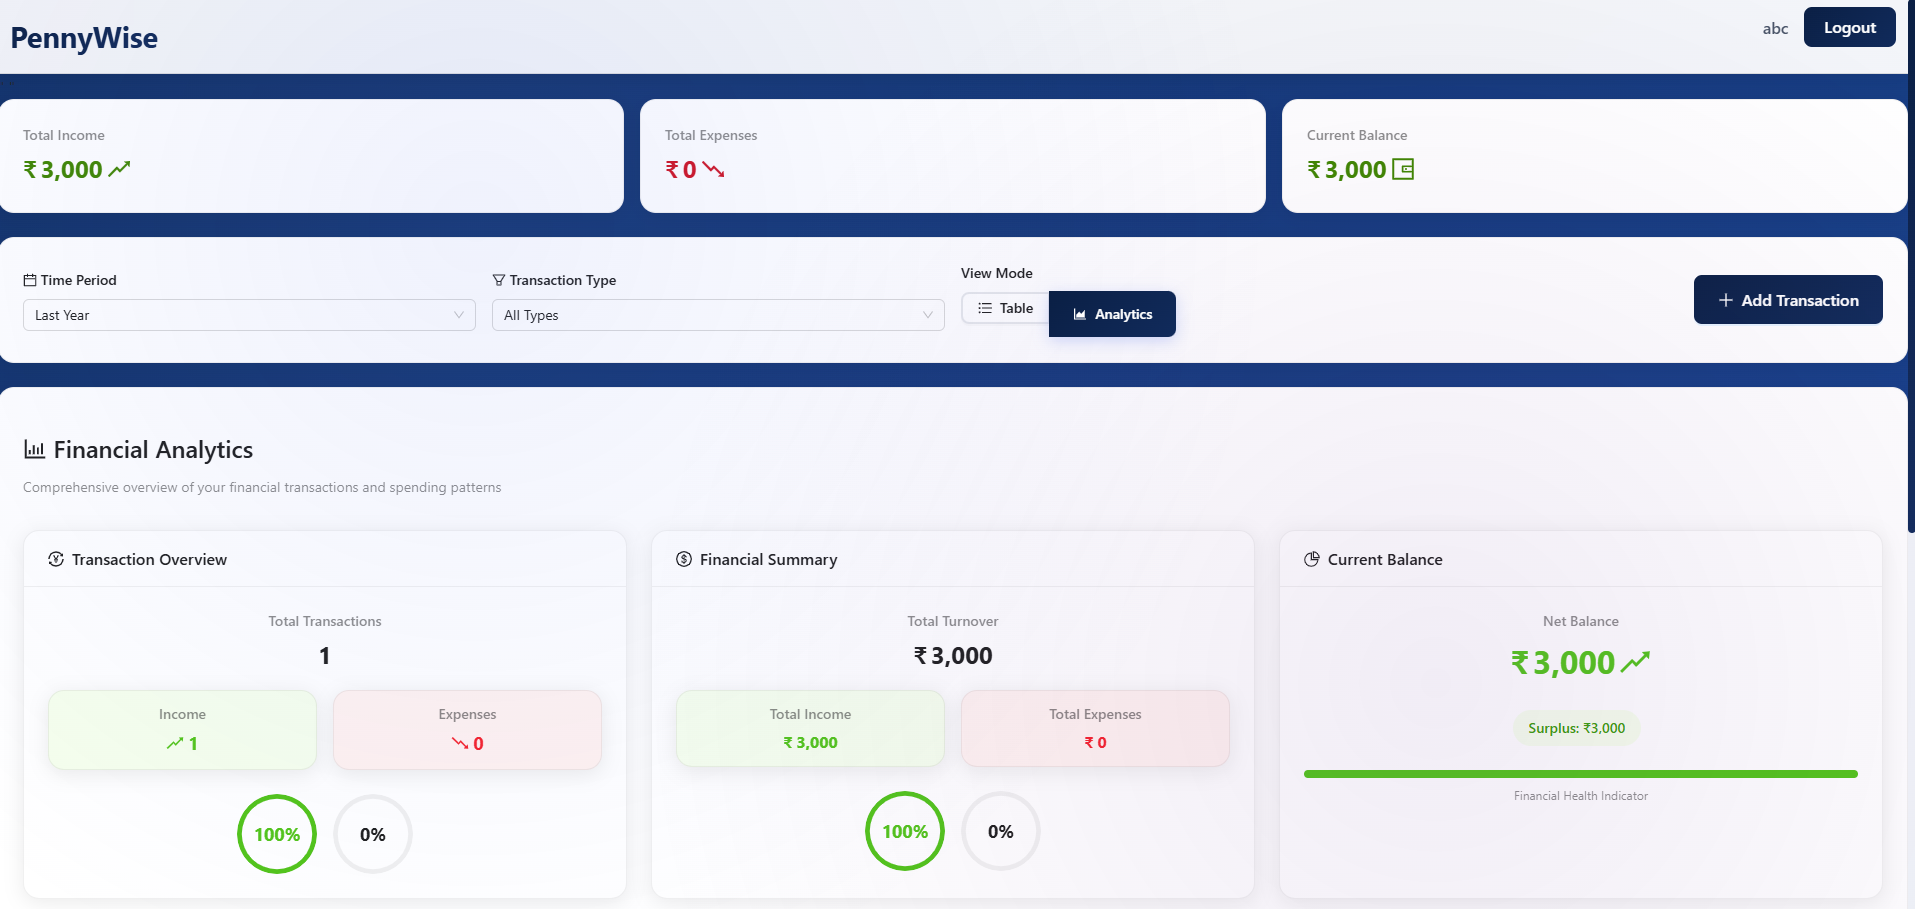
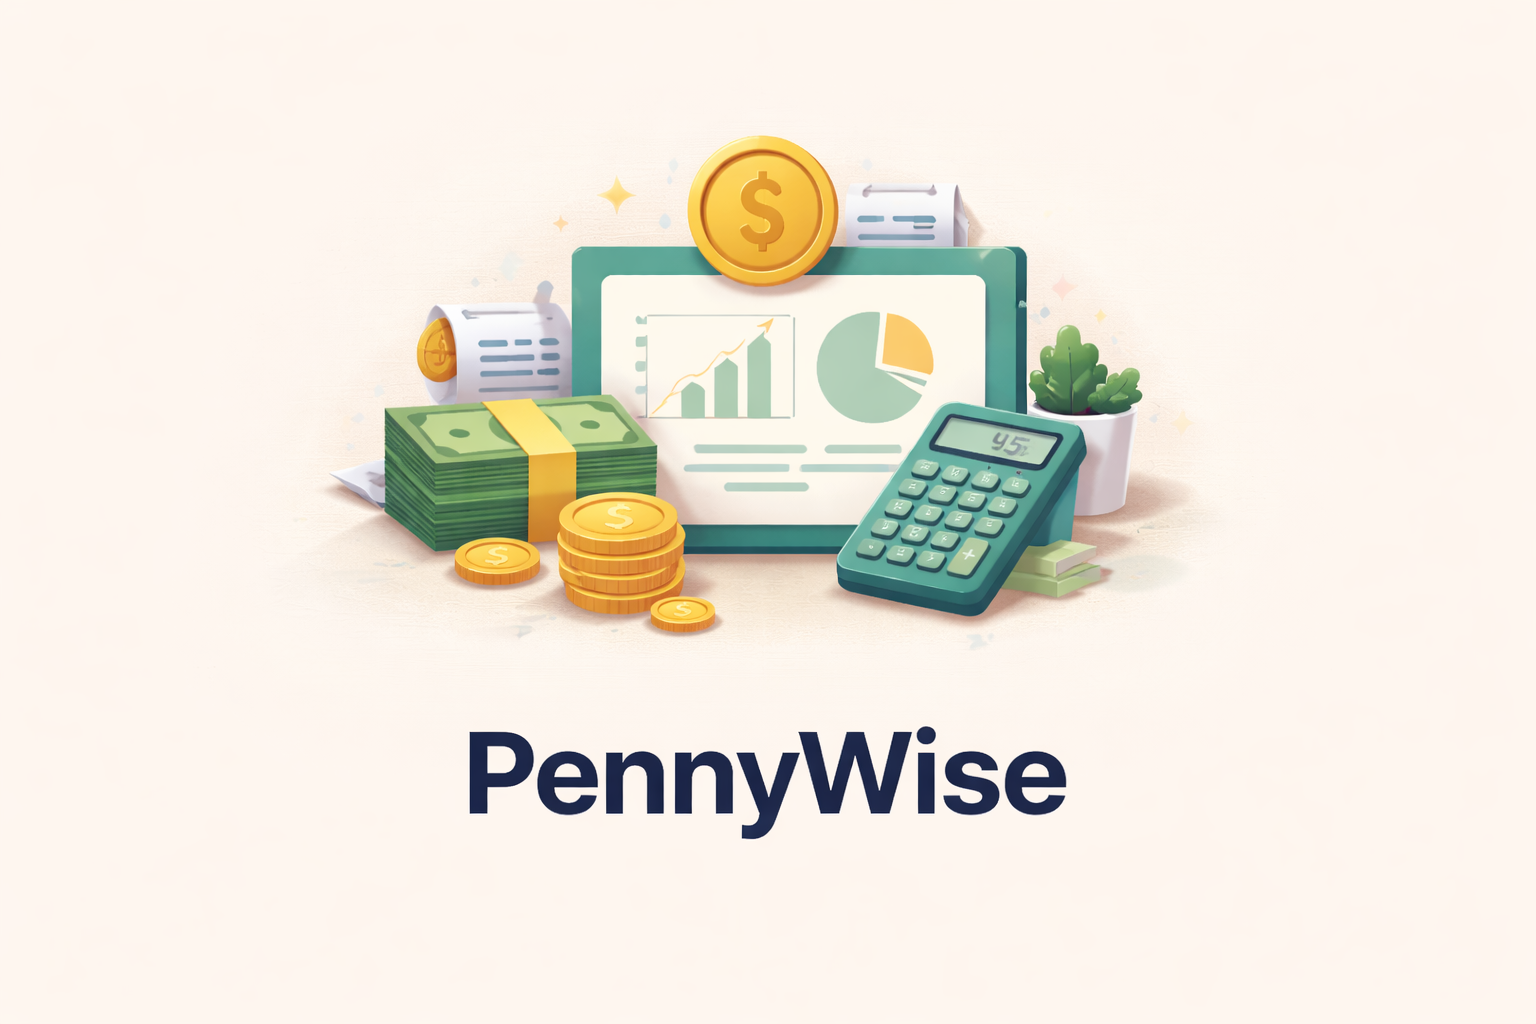
updated the projects information

diff --git a/constants/index.js b/constants/index.js
@@ -283,6 +283,37 @@ const projects = [
     deployed_link: "https://thinkspire.vercel.app/",
   },
   {
+    name: "Brulee",
+    description:
+      "Molecular flavor pairing engine. Enter ingredients you have on hand; Brulee scores potential pairings by shared flavor compoundsons.",
+    tags: [
+      { name: "react.js", color: "blue-text-gradient" },
+      { name: "TypeScript", color: "orange-text-gradient" },
+      { name: "fastapi", color: "green-text-gradient" },
+      { name: "sqlite", color: "pink-text-gradient" },
+      { name: "groq api", color: "orange-text-gradient" },
+      { name: "flavorDB", color: "green-text-gradient" },
+    ],
+    image: "/assets/projects/brulee.png",
+    source_code_link: "https://github.com/priyanshijain1/Brulee",
+    deployed_link: "https://brulee-hazel.vercel.app/",
+  },
+  {
+    name: "PennyWise",
+    description:
+      "Full-stack MERN expense tracker with AI-powered insights, natural language chat, and receipt OCR.",
+    tags: [
+      { name: "react.js", color: "blue-text-gradient" },
+      { name: "express.js", color: "green-text-gradient" },
+      { name: "mongodb", color: "pink-text-gradient" },
+      { name: "groq api", color: "orange-text-gradient" },
+
+    ],
+    image: "/assets/projects/pennywise.png",
+    source_code_link: "https://github.com/priyanshijain1/PennyWise",
+    deployed_link: "https://pennywise-u38o.onrender.com/",
+  },
+  {
     name: "InternHub",
     description:
       "Full-stack platform tracking internships & detecting fraudulent listings. Built an AI pipeline extracting structured data from 300+ emails, reducing manual processing by 70%.",
@@ -292,22 +323,23 @@ const projects = [
       { name: "sqlite", color: "pink-text-gradient" },
       { name: "gemini api", color: "orange-text-gradient" },
     ],
-    image: "https://images.unsplash.com/photo-1516321318423-f06f85e504b3?auto=format&fit=crop&w=800&q=80",
+    image: "/assets/projects/internhub.png",
     source_code_link: "https://github.com/priyanshijain1/InternHub",
     deployed_link: "#",
   },
   {
-    name: "PennyWise",
+    name: "CivicSync",
     description:
-      "Expense tracker with JWT authentication. Designed analytics dashboards with date-based filtering and optimized MongoDB queries using indexing.",
+      "Building a civic complaint resolution platform that lets citizens report issues. AI will auto-categorize, de-duplicate, and route complaints to the correct municipal department.",
     tags: [
-      { name: "react.js", color: "blue-text-gradient" },
-      { name: "express.js", color: "green-text-gradient" },
-      { name: "mongodb", color: "pink-text-gradient" },
+      { name: "react", color: "blue-text-gradient" },
+      { name: "node.js", color: "green-text-gradient" },
+      { name: "PostgreSQL", color: "pink-text-gradient" },
+      { name: "LLM api", color: "orange-text-gradient" },
     ],
-    image: "/assets/projects/pennywise.png",
-    source_code_link: "https://github.com/priyanshijain1/PennyWise",
-    deployed_link: "https://pennywise-u38o.onrender.com/",
+    image: "https://images.unsplash.com/photo-1516321318423-f06f85e504b3?auto=format&fit=crop&w=800&q=80",
+    source_code_link: "https://github.com/priyanshijain1/CivicSync",
+    deployed_link: "#",
   },
   {
     name: "StarBoard",